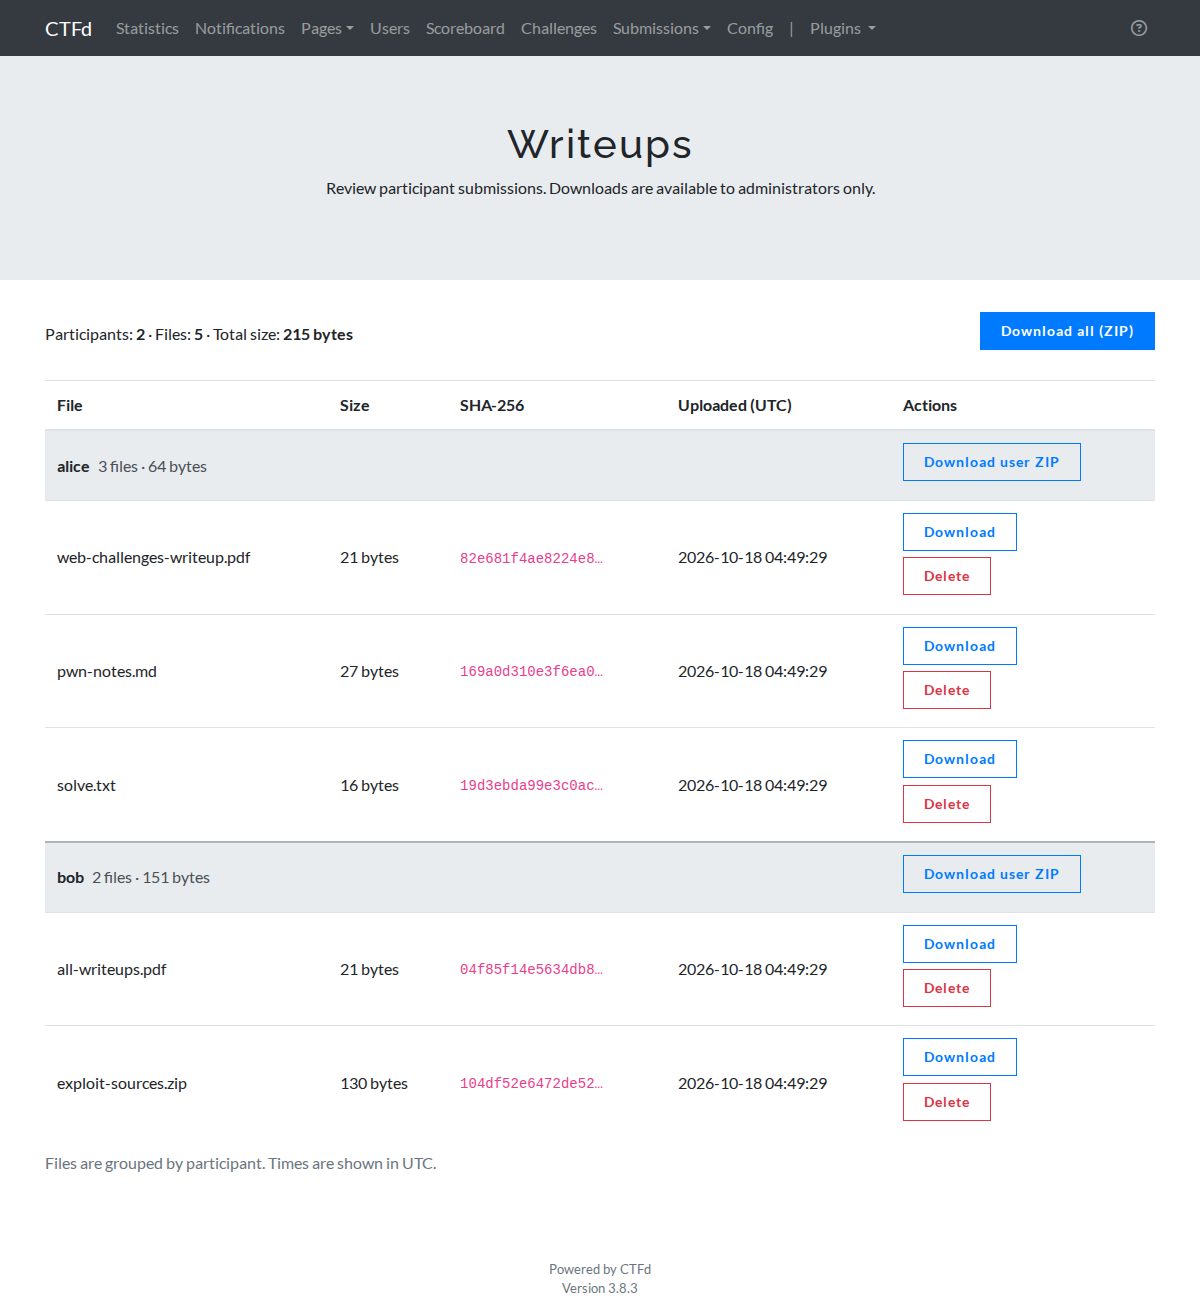
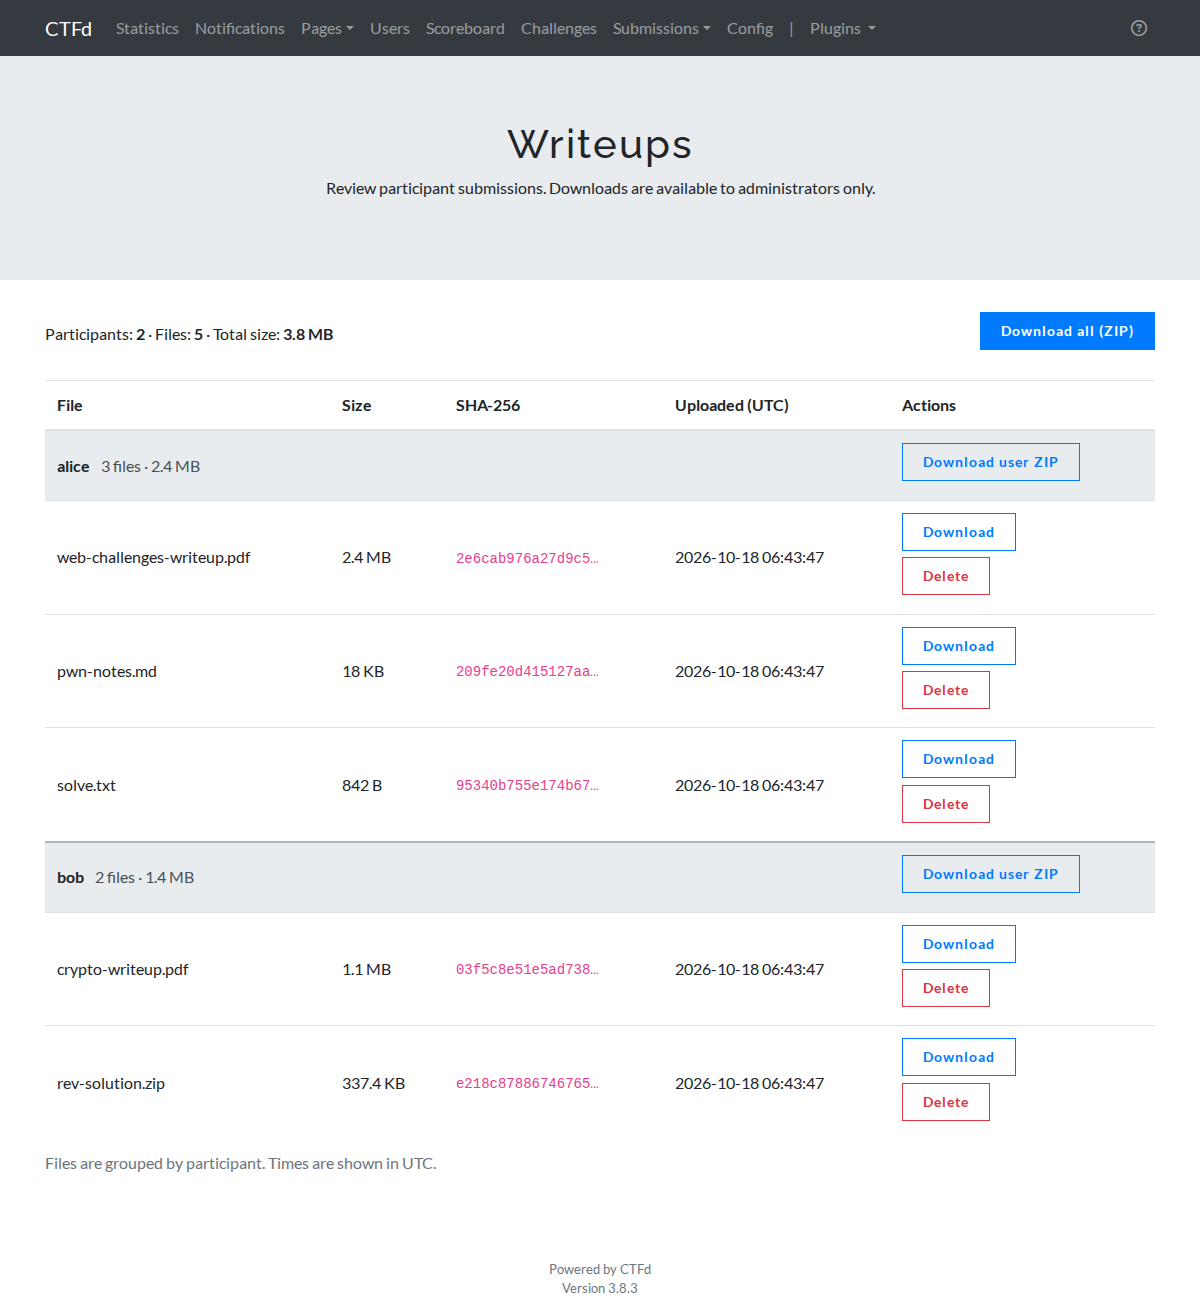
Show file sizes as B/KB/MB/GB (exact bytes in the tooltip); refresh screenshots
Amp-Thread-ID: https://ampcode.com/threads/T-01a149bb-17c6-71eb-9c6b-a8f71a8eb73c

diff --git a/writeups/templates/writeups_admin.html b/writeups/templates/writeups_admin.html
@@ -31,7 +31,7 @@
 </div>
 <div class="container writeups-admin">
   <div class="d-flex justify-content-between align-items-center mb-4">
-    <p class="mb-0">{{ _('Participants') }}: <strong>{{ groups | length }}</strong> · {{ _('Files') }}: <strong>{{ count }}</strong> · {{ _('Total size') }}: <strong>{{ _('%(size)d bytes', size=total_size) }}</strong></p>
+    <p class="mb-0">{{ _('Participants') }}: <strong>{{ groups | length }}</strong> · {{ _('Files') }}: <strong>{{ count }}</strong> · {{ _('Total size') }}: <strong><span title="{{ _('%(size)d bytes', size=total_size) }}">{{ total_size | filesize }}</span></strong></p>
     {% if count %}<a class="btn btn-primary" href="{{ url_for('writeups.admin_download_all') }}">{{ _('Download all (ZIP)') }}</a>{% endif %}
   </div>
   <div class="table-scroll">
@@ -43,13 +43,13 @@
     {% for g in groups %}
     <tbody>
       <tr class="writeups-group">
-        <th scope="rowgroup" colspan="4">{{ g.user.name }} <span class="group-meta">{{ _('%(n)d files', n=g.rows | length) }} · {{ _('%(size)d bytes', size=g.size) }}</span></th>
+        <th scope="rowgroup" colspan="4">{{ g.user.name }} <span class="group-meta">{{ _('%(n)d files', n=g.rows | length) }} · <span title="{{ _('%(size)d bytes', size=g.size) }}">{{ g.size | filesize }}</span></span></th>
         <th><a class="btn btn-sm btn-outline-primary" href="{{ url_for('writeups.admin_download_user', user_id=g.user.id) }}">{{ _('Download user ZIP') }}</a></th>
       </tr>
       {% for w in g.rows %}
       <tr>
         <td>{{ w.original_name }}</td>
-        <td>{{ _('%(size)d bytes', size=w.size) }}</td>
+        <td><span title="{{ _('%(size)d bytes', size=w.size) }}">{{ w.size | filesize }}</span></td>
         <td><code title="{{ w.sha256 }}">{{ w.sha256[:16] }}…</code></td>
         <td>{{ writeup_when(w) }}</td>
         <td>

diff --git a/writeups/templates/writeups_mine.html b/writeups/templates/writeups_mine.html
@@ -79,7 +79,7 @@
         <h2 id="writeup-summary-title">{{ _('Your submissions') }}</h2>
         <dl>
           <dt>{{ _('Files') }}</dt><dd id="writeup-count">{{ writeups | length }} / {{ max_files }}</dd>
-          <dt>{{ _('Total size') }}</dt><dd id="writeup-total">{{ _('%(size)d bytes', size=total_size) }}</dd>
+          <dt>{{ _('Total size') }}</dt><dd id="writeup-total"><span title="{{ _('%(size)d bytes', size=total_size) }}">{{ total_size | filesize }}</span></dd>
         </dl>
       </aside>
     </div>
@@ -95,7 +95,7 @@
           {% for w in writeups %}
             <tr>
               <td class="writeups-filename">{{ w.original_name }}</td>
-              <td>{{ _('%(size)d bytes', size=w.size) }}</td>
+              <td><span title="{{ _('%(size)d bytes', size=w.size) }}">{{ w.size | filesize }}</span></td>
               <td>{{ writeup_when(w) }}</td>
               <td>
                 <form method="POST" action="{{ url_for('writeups.delete_mine', writeup_id=w.id) }}" class="writeup-delete" data-confirm="{{ _('Delete this writeup? This cannot be undone.') }}">

diff --git a/tests/test_e2e.py b/tests/test_e2e.py
@@ -128,6 +128,9 @@ check("2MB accepted", OK_MSG in upload(alice, "huge.pdf", b"%PDF-" + b"A" * (2 *
 check("same content, same name rejected", DUP_MSG in upload(alice, "first writeup.pdf", PDF).text)
 check("same content, other name rejected", DUP_MSG in upload(alice, "renamed.pdf", PDF).text)
 check("duplicates were not stored", len(my_files(alice)[0]) == 5)
+mine = alice.get(BASE + "/writeups").text
+check("participant page shows human-readable sizes", ">2 MB<" in mine and re.search(r">\d+ B<", mine) is not None and "bytes</td>" not in mine)
+check("exact byte count stays in the tooltip", 'title="2097157 bytes"' in mine)
 check("another participant may submit the same bytes", OK_MSG in upload(bob, "same.pdf", PDF).text)
 
 # --- escaping ----------------------------------------------------------------------------------------
@@ -159,6 +162,7 @@ for p in ("/writeups/1", "/plugins/writeups/assets/", "/files/writeups/anything"
 # --- admin: grouped, per-user and overall ZIP -------------------------------------------------------------
 page = admin.get(BASE + "/admin/writeups").text
 check("admin list is grouped by participant", "alice" in page and "bob" in page and "4 files" in page, re.findall(r"\d+ files", page))
+check("admin page shows human-readable sizes", ">2 MB<" in page and re.search(r">\d+ B<", page) is not None and "bytes</td>" not in page)
 check("html filename is escaped in the admin page", "<img src=x" not in page and "&lt;img src=x" in page)
 first_id = next(i for i, nm in my_files(alice)[0] if nm == "first writeup.pdf")
 r = admin.get(BASE + "/admin/writeups/%s/download" % first_id)

diff --git a/writeups/__init__.py b/writeups/__init__.py
@@ -135,6 +135,19 @@ def _user_slug(w):
     )
 
 
+def _filesize(n):
+    """Human-readable size: 15 B, 1.5 KB, 9.9 MB, 2 GB (1024-based, one decimal)."""
+    n = max(int(n or 0), 0)
+    if n < 1024:
+        return "{} B".format(n)
+    value, units = float(n), ("KB", "MB", "GB", "TB")
+    for i, unit in enumerate(units):
+        value /= 1024
+        # round first so 1048575 B reads "1 MB", never "1024 KB"
+        if round(value, 1) < 1024 or i == len(units) - 1:
+            return "{} {}".format(("%.1f" % value).rstrip("0").rstrip("."), unit)
+
+
 def _when(w):
     """Upload time for display; falls back to `updated` for rows without `created`."""
     ts = w.created or w.updated
@@ -536,4 +549,5 @@ def load(app):
         return redirect(url_for("writeups.admin_list"))
 
     app.jinja_env.globals.setdefault("writeup_when", _when)
+    app.jinja_env.filters["filesize"] = _filesize
     app.register_blueprint(bp)

diff --git a/README.md b/README.md
@@ -19,7 +19,7 @@ Most existing writeup plugins store plain text or only support manual grading. T
 **Participants** (log in, then open `/writeups`)
 
 - Upload up to **100 files** each: `.pdf .zip .md .txt`, max **20 MB** per file, **200 MB** in total
-- Every upload is a new file (nothing is replaced). A list shows name, size and time, and the file count (`4 / 100`)
+- Every upload is a new file (nothing is replaced). A list shows name, size (B, KB, MB, GB) and time, and the file count (`4 / 100`)
 - Delete your own files. Submitting the **same content twice is rejected**, whatever the file name
 - Upload progress bar
 - Participants **cannot download** anything, not even their own files
